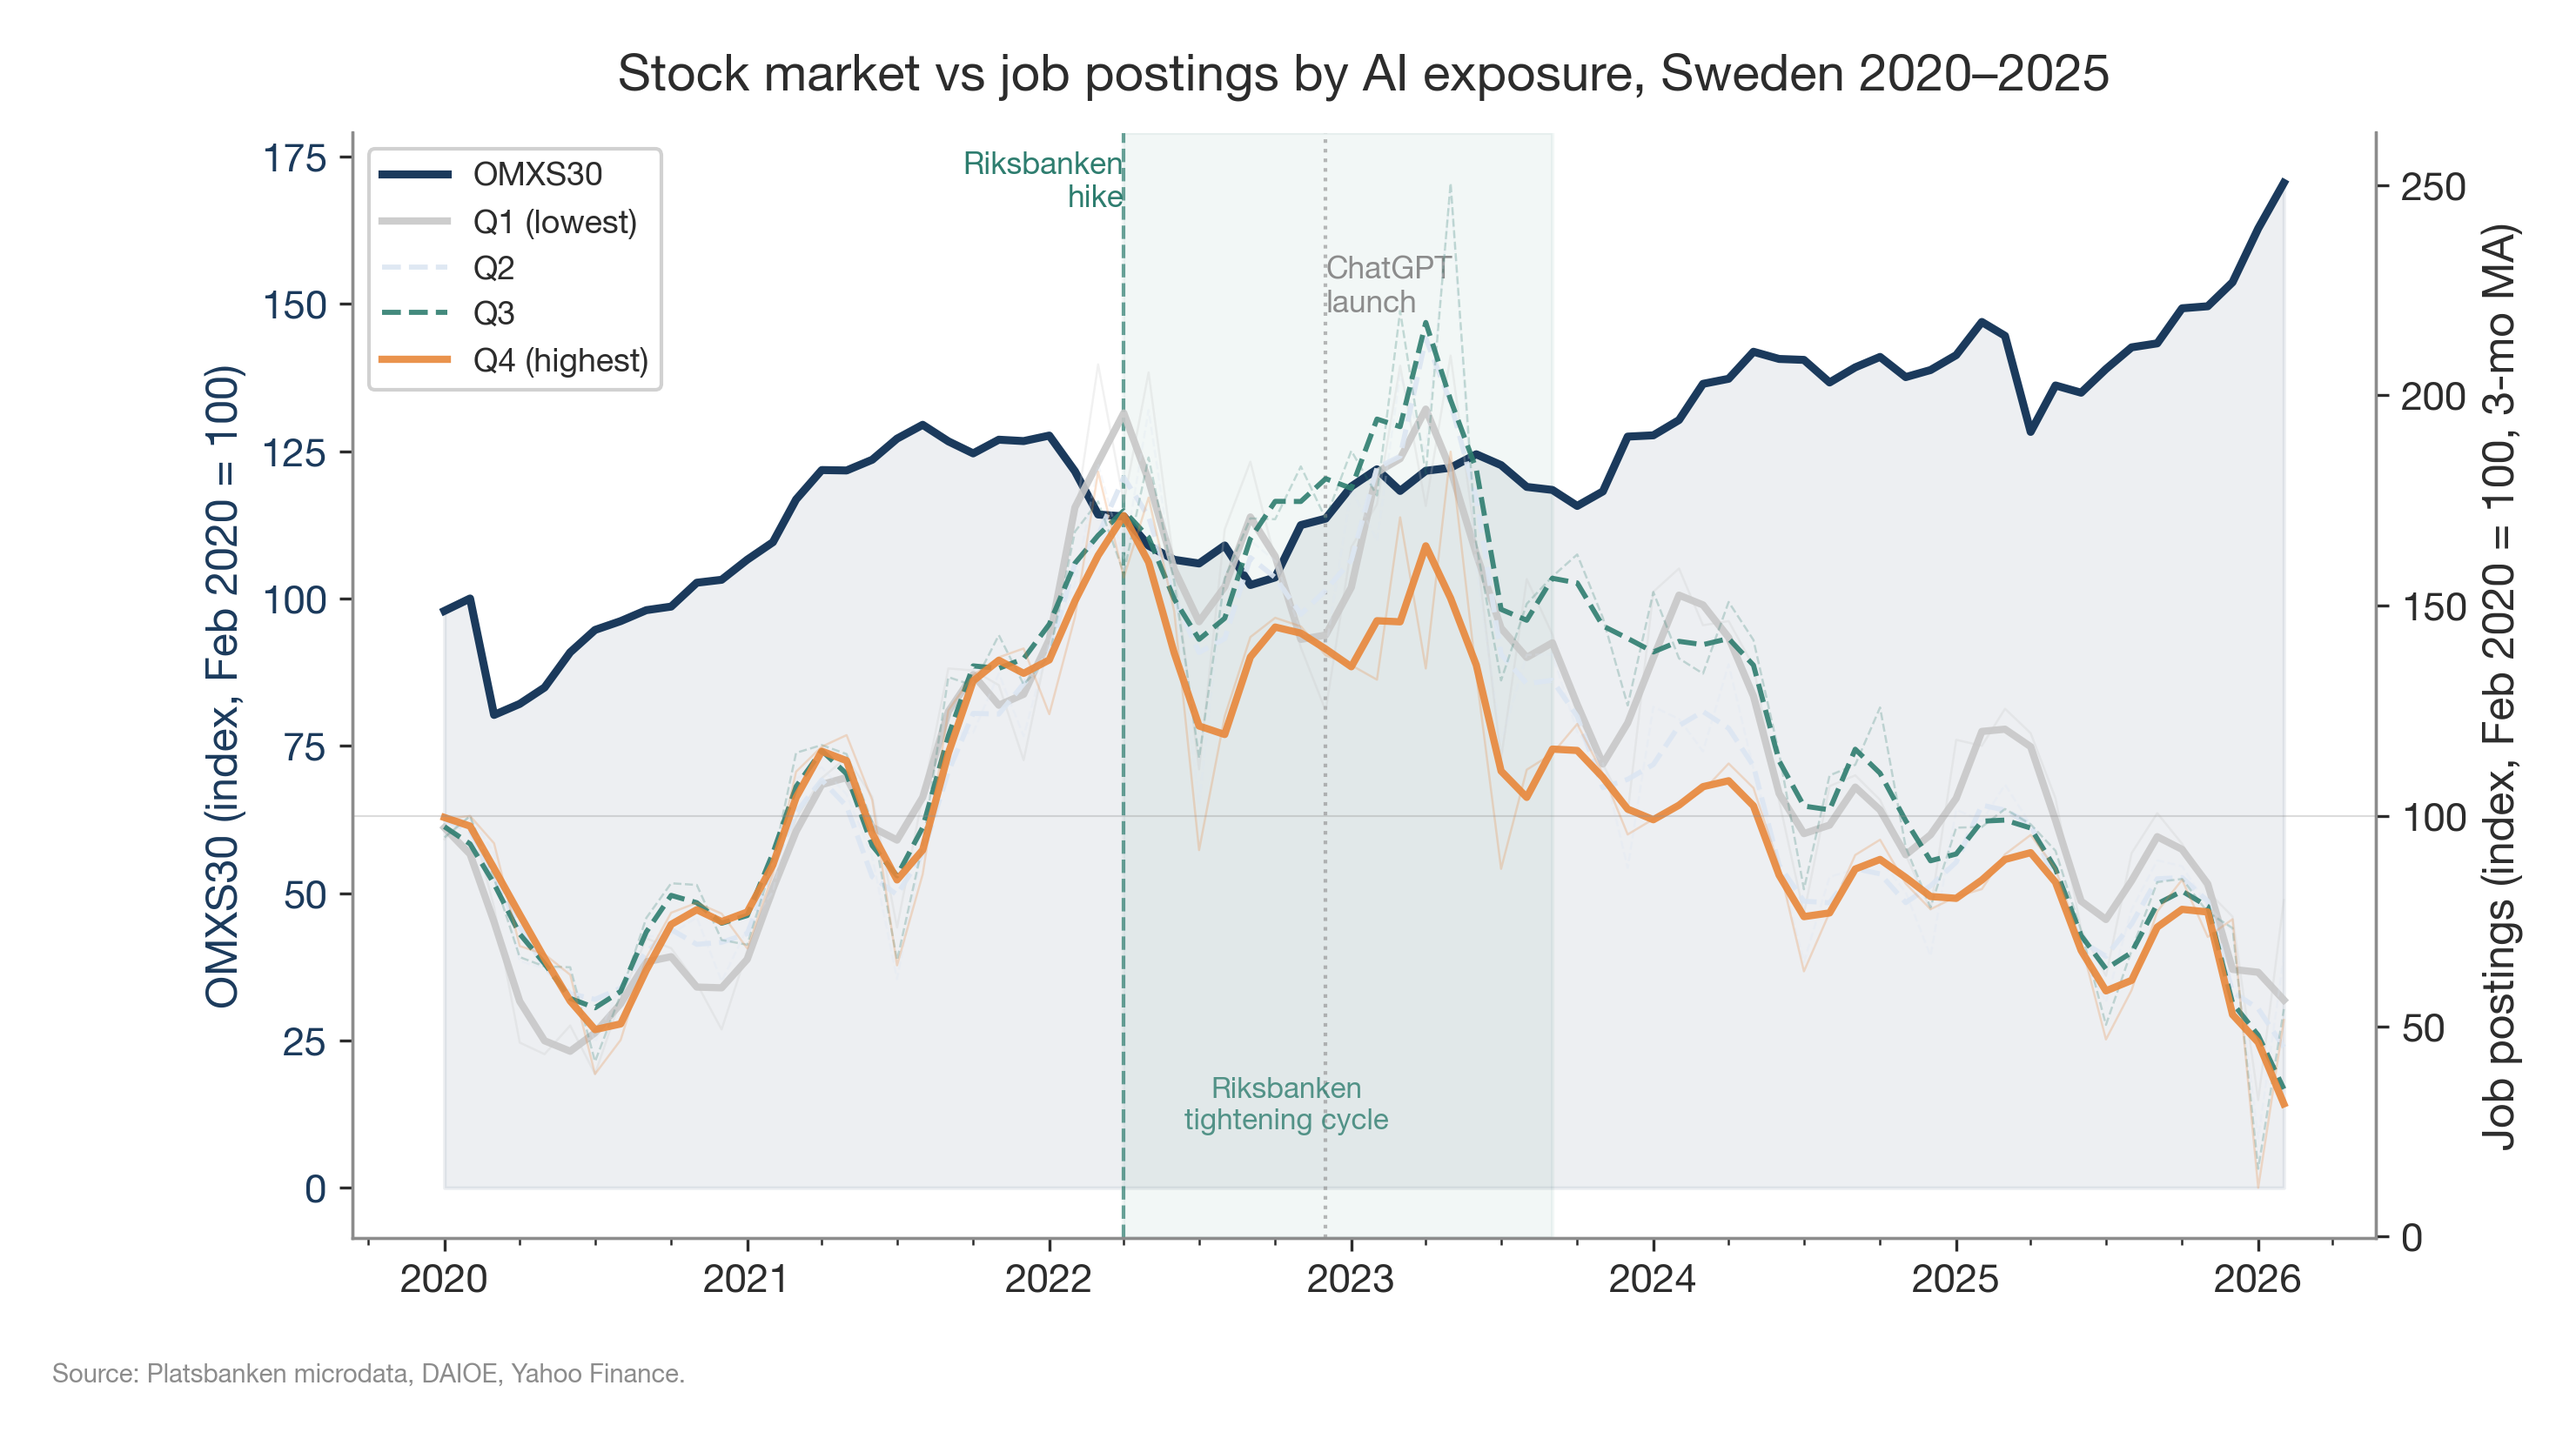
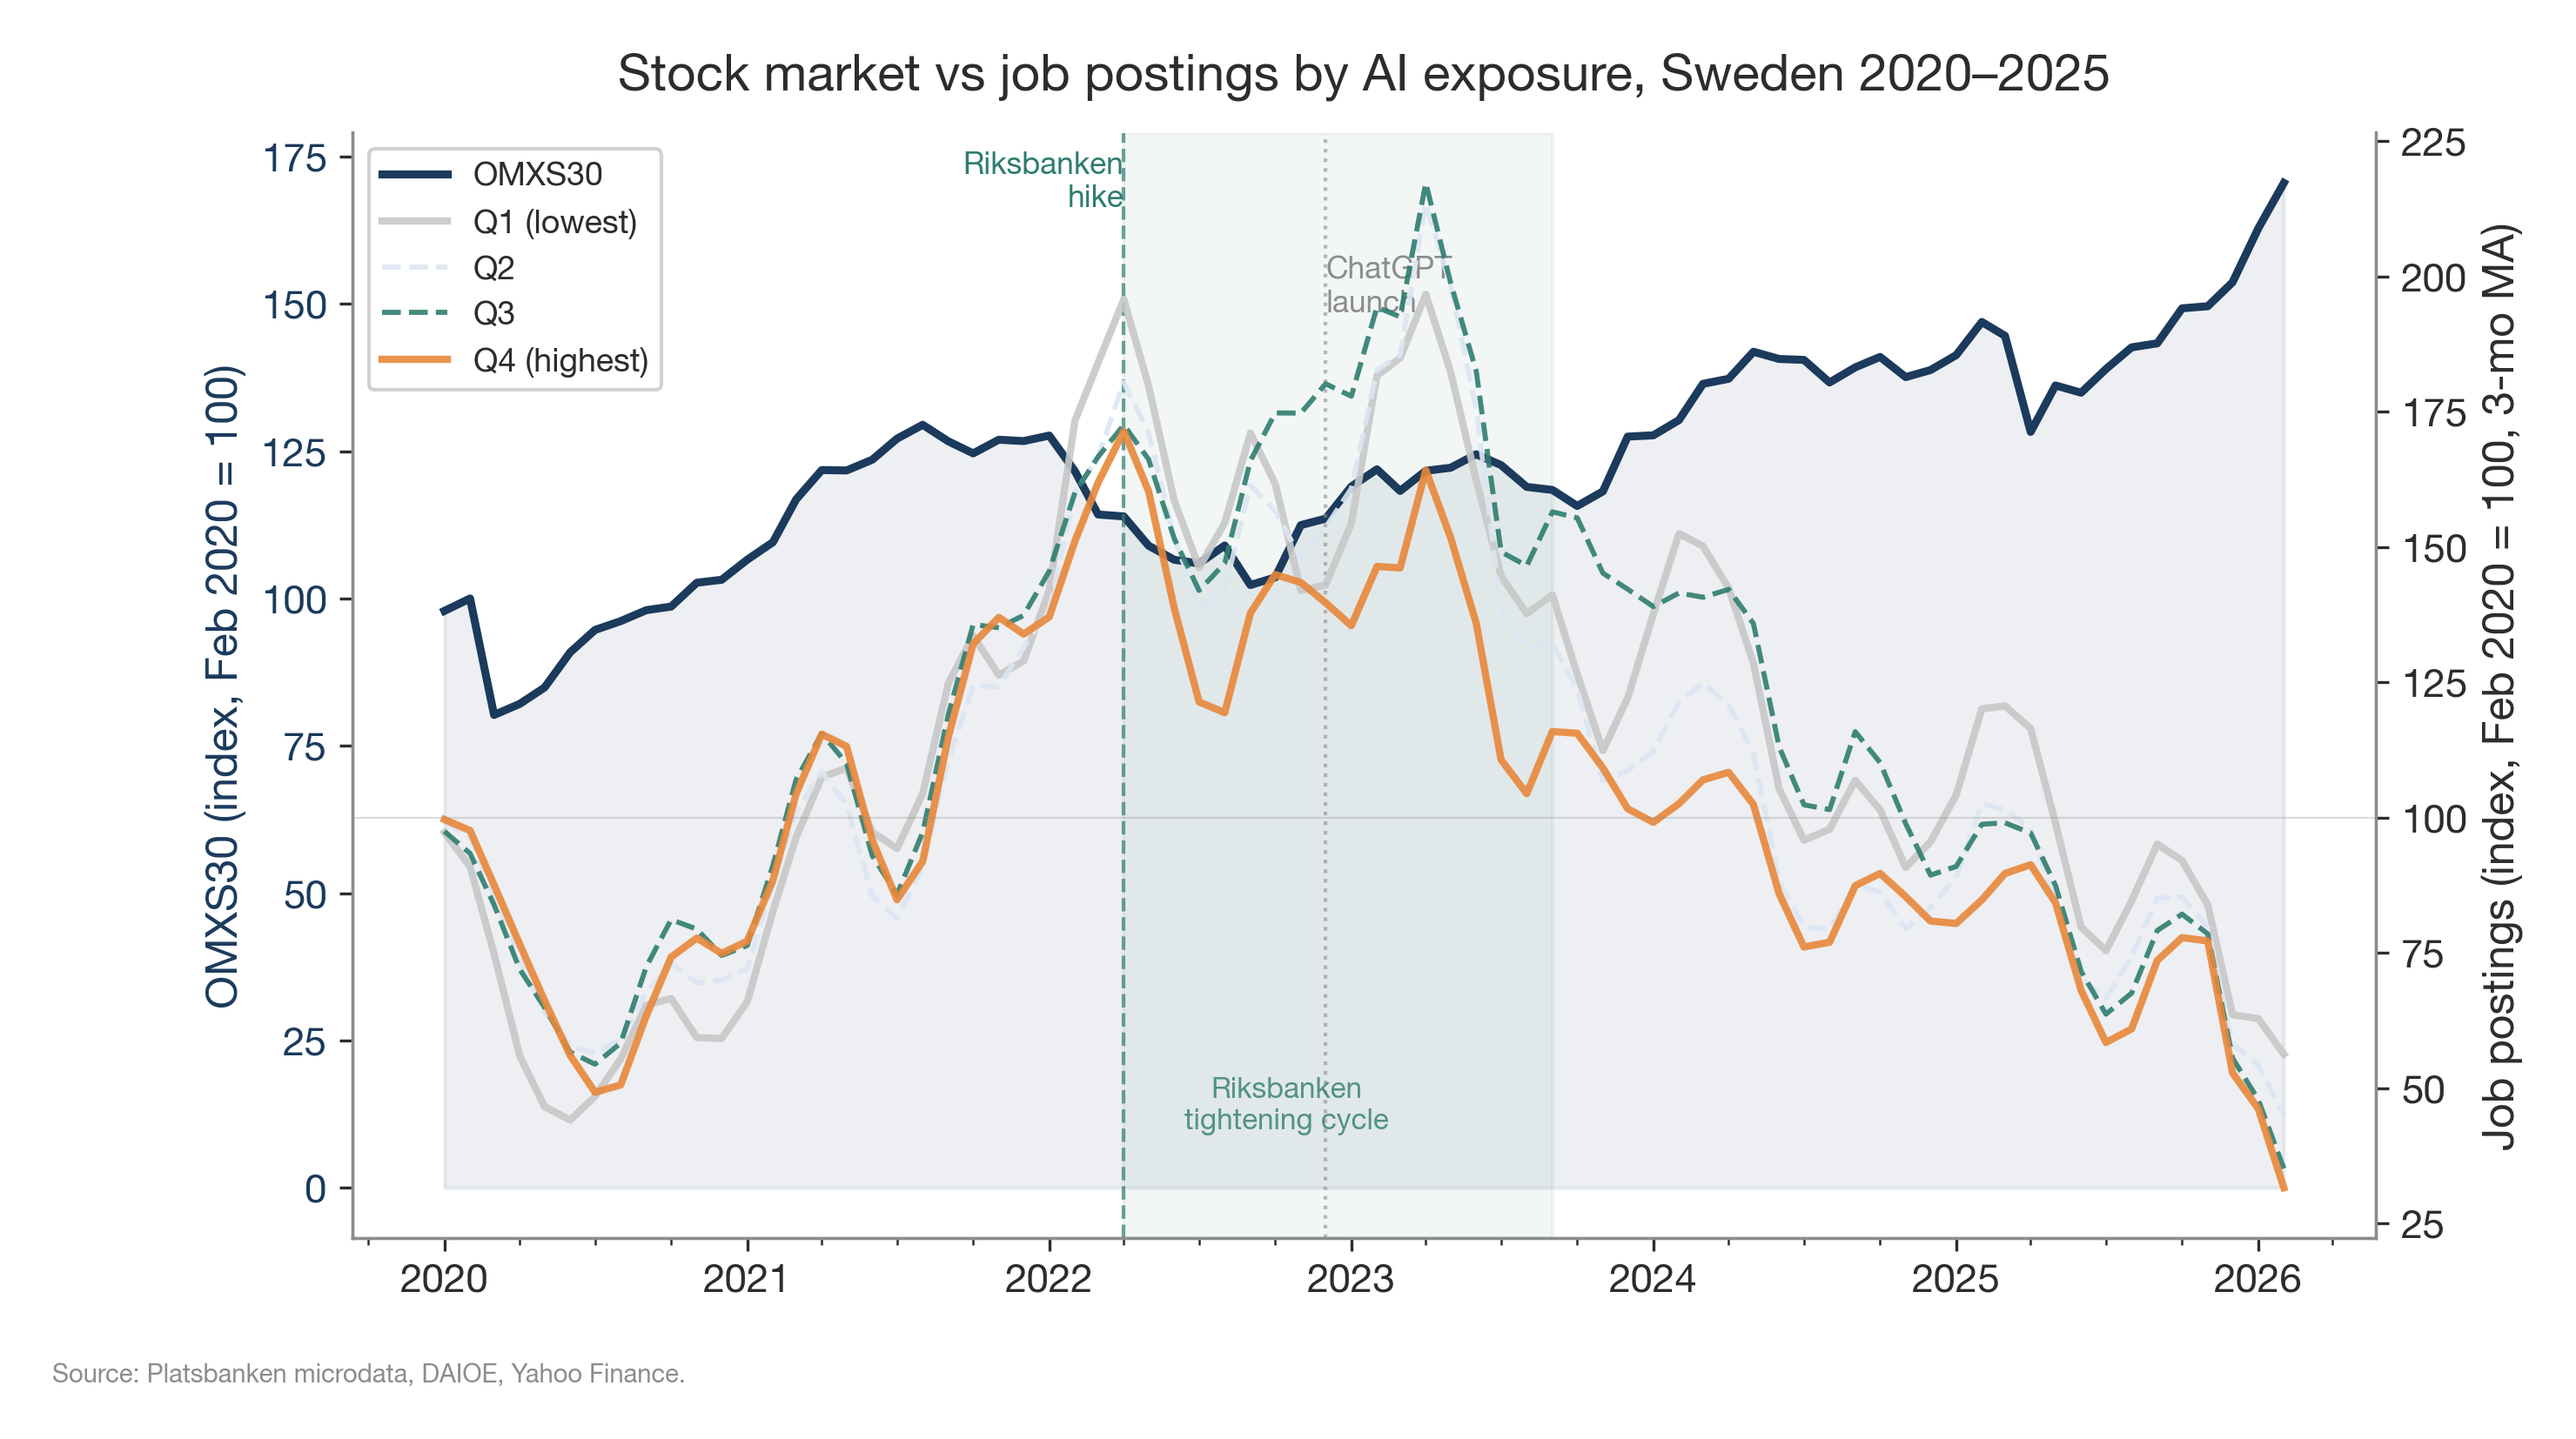
Clean up Figure 1 and Figure A1 (remove spurious lines)
Figure 1 (fig1_scary_chart): remove the four faint raw quartile
background lines (alpha=0.25), leaving only the OMXS30 main line and
the four 3-month moving average quartile lines — five main lines
total. The faint background lines were duplicating each colour and
cluttering the chart.

Figure A1 (figA1_sweden_vs_us): filter the Indeed US data to a single
variable type before plotting. The CSV file contains multiple series
per date (total postings, new postings, etc.) and plotting without
filtering connects across them, producing a spurious near-horizontal
straight line through the US panel.

diff --git a/src/06_figures_tables.py b/src/06_figures_tables.py
@@ -124,18 +124,13 @@ def fig_scary_chart():
     # Quartile posting lines on right axis
     ax2 = ax1.twinx()
 
-    # ── Fix 2: Plot raw lines faintly, then 3-month MA prominently ──
+    # ── Plot 3-month MA only (raw lines removed for visual clarity) ──
     for q_name, color in Q_COLORS.items():
         qdf = quartile[quartile["exposure_quartile"] == q_name].sort_values("date").copy()
         linewidth = 2.0 if "Q4" in q_name or "Q1" in q_name else 1.4
         linestyle = "-" if "Q4" in q_name or "Q1" in q_name else "--"
 
-        # Raw line (faint)
-        ax2.plot(
-            qdf["date"], qdf["ads_idx"],
-            color=color, linewidth=0.6, linestyle=linestyle, alpha=0.25,
-        )
-        # 3-month rolling average (prominent)
+        # 3-month rolling average (the only quartile line shown)
         qdf["ads_ma3"] = qdf["ads_idx"].rolling(3, center=True, min_periods=1).mean()
         ax2.plot(
             qdf["date"], qdf["ads_ma3"],
@@ -323,6 +318,12 @@ def fig_sweden_vs_us():
 
         indeed = pd.read_csv(RAW / "indeed_us_aggregate.csv")
         indeed["date"] = pd.to_datetime(indeed["date"])
+        # Filter to a single variable type — the file contains multiple
+        # series per date (total postings, new postings, etc.) and plotting
+        # without filtering connects across them, producing a spurious
+        # near-horizontal line through the panel.
+        if "variable" in indeed.columns:
+            indeed = indeed[indeed["variable"] == "total postings"]
         indeed = indeed.set_index("date")
         # Indeed is already indexed to ~100 at Feb 2020
     except Exception as e:
